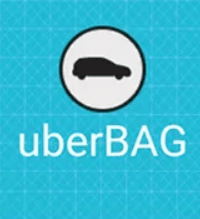
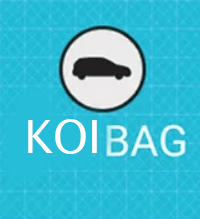
Atualizações no projeto

Changed region(s): [[0.09, 0.5205, 0.57, 0.7397], [0.12, 0.7671, 0.15, 0.7945]]

diff --git a/uber_eats.html b/uber_eats.html
@@ -13,16 +13,12 @@
         <!-- Font Awesome -->
         <link rel="stylesheet" href="https://pro.fontawesome.com/releases/v5.10.0/css/all.css" integrity="sha384-AYmEC3Yw5cVb3ZcuHtOA93w35dYTsvhLPVnYs9eStHfGJvOvKxVfELGroGkvsg+p" crossorigin="anonymous"/>
         
-        <!-- Estilo CSS -->
+        <!-- CSS -->
         <link rel="stylesheet" type="text/css" href="css/estilo.css">
 
         <!-- Favicon -->
         <link rel="icon" href="img/uber_favicon.png">
         
-        <!-- HTML5Shiv -->
-        <!--[if lt IE 9]>
-            <script src="https://oss.maxcdn.com/html5shiv/3.7.2/html5shiv.min.js"></script>
-        <![endif]-->
     </head>
     
     <body>
@@ -35,7 +31,7 @@
                 <!-- Logo -->
                 <a href="index.html" class="logo"><h1>Uber</h1></a>
                 
-                <!-- Barra de navegação -->
+                <!-- menu -->
                 <nav class="nav">
                     <ul>
                         <li><a href="sobre.html">Sobre</a></li>
@@ -48,9 +44,8 @@
                 </nav>
                 
             </header>
-            <!-- Fim Cabeçalho -->
             
-            <!-- Navegação Lateral -->
+            <!-- menu lateral -->
             <nav class="sidenav">
                 <ul>
                     
@@ -58,7 +53,6 @@
                         <a href="index.html"><i class="fab fa-uber"></i><span>Koi</span></a>
                     </li>
                     
-                    <!-- Ícones -->
                     <li>
                         <a href="servicos.html"><i class="fas fa-th-large"></i><span>Categorias</span></a>
                     </li>
@@ -76,9 +70,8 @@
                     </li>
                 </ul>
             </nav>
-            <!-- Fim Navegação Lateral -->
             
-            <!-- Conteúdo Principal -->
+            <!-- Conteúdo da pagina -->
             <main class="content">
                 
                 <!-- Ínicio -->
@@ -94,12 +87,9 @@
                         </div>
                     </div>
                     
-                    <iframe width="560" height="315" src="https://www.youtube.com/embed/_O4XxP-AbYs?controls=0" frameborder="0" allow="accelerometer; autoplay; clipboard-write; encrypted-media; gyroscope; picture-in-picture" allowfullscreen></iframe>
-                    
                 </div>
-                <!-- Fim Ínicio -->
                 
-                <!-- Inicio Uber Eats -->
+                <!-- parte do uber eats que a gente adaptou -->
                 <div class="servicos_categorias categorias_uber_eats bg_verde">
                     <div class="mesclar">
                         <h3>Koi <span>Eats</span></h3>
@@ -110,7 +100,7 @@
                         <h4>Delivery</h4>
                         <h5>Seu prato favorito com entrega</h5>
                     </div>
-                    <img src="img/uber_eats_entregador.jpg" alt="Entregador Uber Eats">
+                    <img src="img/uber_eats_entregador.png" alt="Entregador Uber Eats">
                     <div class="uber_x">
                         <p>O Koi Eats é o serviço de entrega de comidas da Koi, com atividade em 13 países e mais de 50 cidades. O app grátis está disponível para celulares Android e iPhone (iOS) e oferece cupons de desconto, suporte a diversos restaurantes e opções de cancelamento do pedido com reembolso. Além disso, ele experimenta o uso de drones nas entregas, com possibilidade chegada no Brasil em cinco anos. O serviço chegou ao Brasil em dezembro de 2016 com a promessa de rivalizar com os concorrentes iFood e SpoonRocket.</p>
                     </div>
@@ -130,7 +120,7 @@
                         <h4>Restaurantes</h4>
                         <h5>Seus restaurantes favoritos com descontos promocionais</h5>
                     </div>
-                    <img src="img/mc_donalds.jpg">
+                    <img src="img/mc_donalds.png">
                     <div class="uber_comfort">
                         <p>Faça pedidos em seus restaurantes favoritos aqui, contamos com diversos restaurantes cadastrados, os mais populares como McDonalds, Burguer King, KFC estão conosco, e conosco você consegue descontos promocionais em todos os pedidos pelo site ou pelo aplicativo, confira já as promoções, também é possível verificar as avaliações de cada restaurante, assim como taxa de entrega e espera.</p>
                     </div>
@@ -161,9 +151,9 @@
                         <a class="botao_uber_eats" href="https://apps.apple.com/us/app/uber-eats-food-delivery/id1058959277">App Store: Koi <span>Eats</span> <i class="fas fa-download"></i></a>
                     </div>
                 </div>
-                <!-- Fim Uber Eats -->
+
                 
-                <!-- Serviços -->
+                <!-- parte dos serviços Serviços -->
                 <div class="servicos servicos_inferior">
 
                     <div class="categorias">
@@ -180,12 +170,11 @@
                         <a href="mobile.html">Saiba mais<i class="fas fa-angle-right"></i></a>
                     </div>
                 </div>
-                <!-- Fim Serviços -->
+
                 
             </main>
-            <!-- Fim Conteúdo Principal -->
             
-            <!-- Rodapé -->
+            <!-- Rodapé com as infos -->
             <footer class="footer">
                 <ul class="sobre">
                     <li><h3>Sobre</h3></li>
@@ -208,7 +197,7 @@
                     <li><a href="contato.html">Avalie-nos</a></li>
                 </ul>
                 
-                <!-- Botoes Redes Sociais -->
+                <!-- Botoes Redes Sociais Todos vao levar pras redes sociais da uber porque é pra ser uma replica do site da uber-->
                 <nav class="botoes_inferiores">
                     <ul>
                         <li><a href="https://www.facebook.com/uberbr/?brand_redir=120945717945722"><i class="fab fa-facebook"></i></a></li>
@@ -219,7 +208,7 @@
                     </ul>
                 </nav>
                 
-                <!-- Ícones de Download -->
+                <!-- negocio de download pra celular-->
                 <ul class="icones_download">
                     <li><a href="https://apps.apple.com/us/app/uber/id368677368?uclick_id=1e3e3bed-1d47-4c1d-a82f-41a149feb678"><img src="img/app_store_icone.png"></a></li>
                     <li><a href="https://play.google.com/store/apps/details?id=com.ubercab&uclick_id=1e3e3bed-1d47-4c1d-a82f-41a149feb678"><img src="img/google_play_icone.png"></a></li>
@@ -229,7 +218,6 @@
                     <a href="index.html" class="logo"><h1>Koi</h1></a>
                 </div>
             </footer>
-            <!-- Fim Rodapé -->
         </div>
     
     </body>

diff --git a/sobre.html b/sobre.html
@@ -13,16 +13,12 @@
         <!-- Font Awesome -->
         <link rel="stylesheet" href="https://pro.fontawesome.com/releases/v5.10.0/css/all.css" integrity="sha384-AYmEC3Yw5cVb3ZcuHtOA93w35dYTsvhLPVnYs9eStHfGJvOvKxVfELGroGkvsg+p" crossorigin="anonymous"/>
         
-        <!-- Estilo CSS -->
+        <!-- CSS -->
         <link rel="stylesheet" type="text/css" href="css/estilo.css">
 
         <!-- Favicon -->
         <link rel="icon" href="img/uber_favicon.png">
         
-        <!-- HTML5Shiv -->
-        <!--[if lt IE 9]>
-            <script src="https://oss.maxcdn.com/html5shiv/3.7.2/html5shiv.min.js"></script>
-        <![endif]-->
     </head>
     
     <body>
@@ -94,7 +90,6 @@
                         </div>
                     </div>
                     
-                    <iframe width="560" height="315" src="https://www.youtube.com/embed/_O4XxP-AbYs?controls=0" frameborder="0" allow="accelerometer; autoplay; clipboard-write; encrypted-media; gyroscope; picture-in-picture" allowfullscreen></iframe>
                     
                 </div>
                 <!-- Fim Ínicio -->

diff --git a/servicos.html b/servicos.html
@@ -94,8 +94,6 @@
                         </div>
                     </div>
                     
-                    <iframe width="560" height="315" src="https://www.youtube.com/embed/_O4XxP-AbYs?controls=0" frameborder="0" allow="accelerometer; autoplay; clipboard-write; encrypted-media; gyroscope; picture-in-picture" allowfullscreen></iframe>
-                    
                 </div>
                 <!-- Fim Ínicio -->
                 
@@ -148,7 +146,7 @@
                 <div class="servicos servicos_inferior">
 
                     <div class="uber_eats">
-                        <img src="img/uber_eats.jpg" alt="Uber Eats">
+                        <img src="img/uber_eats.png" alt="Uber Eats">
                         <h4>Koi Eats</h4>
                         <p>Utilizando o Koi Eats, com apenas um toque, receba em sua casa seu pedido de seu restaurante favorito.</p>
                         <a href="uber_eats.html">Saiba mais<i class="fas fa-angle-right"></i></a>

diff --git a/contato.html b/contato.html
@@ -19,10 +19,6 @@
         <!-- Favicon -->
         <link rel="icon" href="img/uber_favicon.png">
         
-        <!-- HTML5Shiv -->
-        <!--[if lt IE 9]>
-            <script src="https://oss.maxcdn.com/html5shiv/3.7.2/html5shiv.min.js"></script>
-        <![endif]-->
     </head>
     
     <body>
@@ -95,9 +91,6 @@
                             <a href="https://apps.apple.com/br/developer/uber-technologies-inc/id368677371"><img src="img/app_store.svg"></a>
                         </div>
                     </div>
-                    
-                    <iframe width="560" height="315" src="https://www.youtube.com/embed/_O4XxP-AbYs?controls=0" frameborder="0" allow="accelerometer; autoplay; clipboard-write; encrypted-media; gyroscope; picture-in-picture" allowfullscreen></iframe>
-                    
                 </div>
                 <!-- Fim Ínicio -->
                 

diff --git a/index.html b/index.html
@@ -18,11 +18,7 @@
 
         <!-- Favicon -->
         <link rel="icon" href="img/uber_favicon.png">
-        
-        <!-- HTML5Shiv -->
-        <!--[if lt IE 9]>
-            <script src="https://oss.maxcdn.com/html5shiv/3.7.2/html5shiv.min.js"></script>
-        <![endif]-->
+
     </head>
     
     <body>
@@ -90,8 +86,6 @@
                             <a href="https://apps.apple.com/br/developer/uber-technologies-inc/id368677371"><img src="img/app_store.svg"></a>
                         </div>
                     </div>
-                    
-                    <iframe width="560" height="315" src="https://www.youtube.com/embed/_O4XxP-AbYs?controls=0" frameborder="0" allow="accelerometer; autoplay; clipboard-write; encrypted-media; gyroscope; picture-in-picture" allowfullscreen></iframe>
                     
                 </div>
                 <!-- Fim Ínicio -->

diff --git a/mobile.html b/mobile.html
@@ -18,11 +18,7 @@
 
         <!-- Favicon -->
         <link rel="icon" href="img/uber_favicon.png">
-        
-        <!-- HTML5Shiv -->
-        <!--[if lt IE 9]>
-            <script src="https://oss.maxcdn.com/html5shiv/3.7.2/html5shiv.min.js"></script>
-        <![endif]-->
+
     </head>
     
     <body>
@@ -93,8 +89,6 @@
                             <a href="https://apps.apple.com/br/developer/uber-technologies-inc/id368677371"><img src="img/app_store.svg"></a>
                         </div>
                     </div>
-                    
-                    <iframe width="560" height="315" src="https://www.youtube.com/embed/_O4XxP-AbYs?controls=0" frameborder="0" allow="accelerometer; autoplay; clipboard-write; encrypted-media; gyroscope; picture-in-picture" allowfullscreen></iframe>
                     
                 </div>
                 <!-- Fim Ínicio -->

diff --git a/login.html b/login.html
@@ -21,11 +21,7 @@
 
         <!-- Favicon -->
         <link rel="icon" href="img/uber_favicon.png">
-        
-        <!-- HTML5Shiv -->
-        <!--[if lt IE 9]>
-            <script src="https://oss.maxcdn.com/html5shiv/3.7.2/html5shiv.min.js"></script>
-        <![endif]-->
+
     </head>
     
     <body onload="criarModal()" class="bg-dark pt-5 pb-5">

diff --git a/register.html b/register.html
@@ -21,11 +21,7 @@
 
         <!-- Favicon -->
         <link rel="icon" href="img/uber_favicon.png">
-        
-        <!-- HTML5Shiv -->
-        <!--[if lt IE 9]>
-            <script src="https://oss.maxcdn.com/html5shiv/3.7.2/html5shiv.min.js"></script>
-        <![endif]-->
+
     </head>
     
     <body onload="criarModal()" class="bg-dark pt-5 pb-5">

diff --git a/register_motorista.html b/register_motorista.html
@@ -22,10 +22,6 @@
         <!-- Favicon -->
         <link rel="icon" href="img/uber_favicon.png">
         
-        <!-- HTML5Shiv -->
-        <!--[if lt IE 9]>
-            <script src="https://oss.maxcdn.com/html5shiv/3.7.2/html5shiv.min.js"></script>
-        <![endif]-->
     </head>
     
     <body onload="criarModal()" class="bg-dark pt-5 pb-5">
